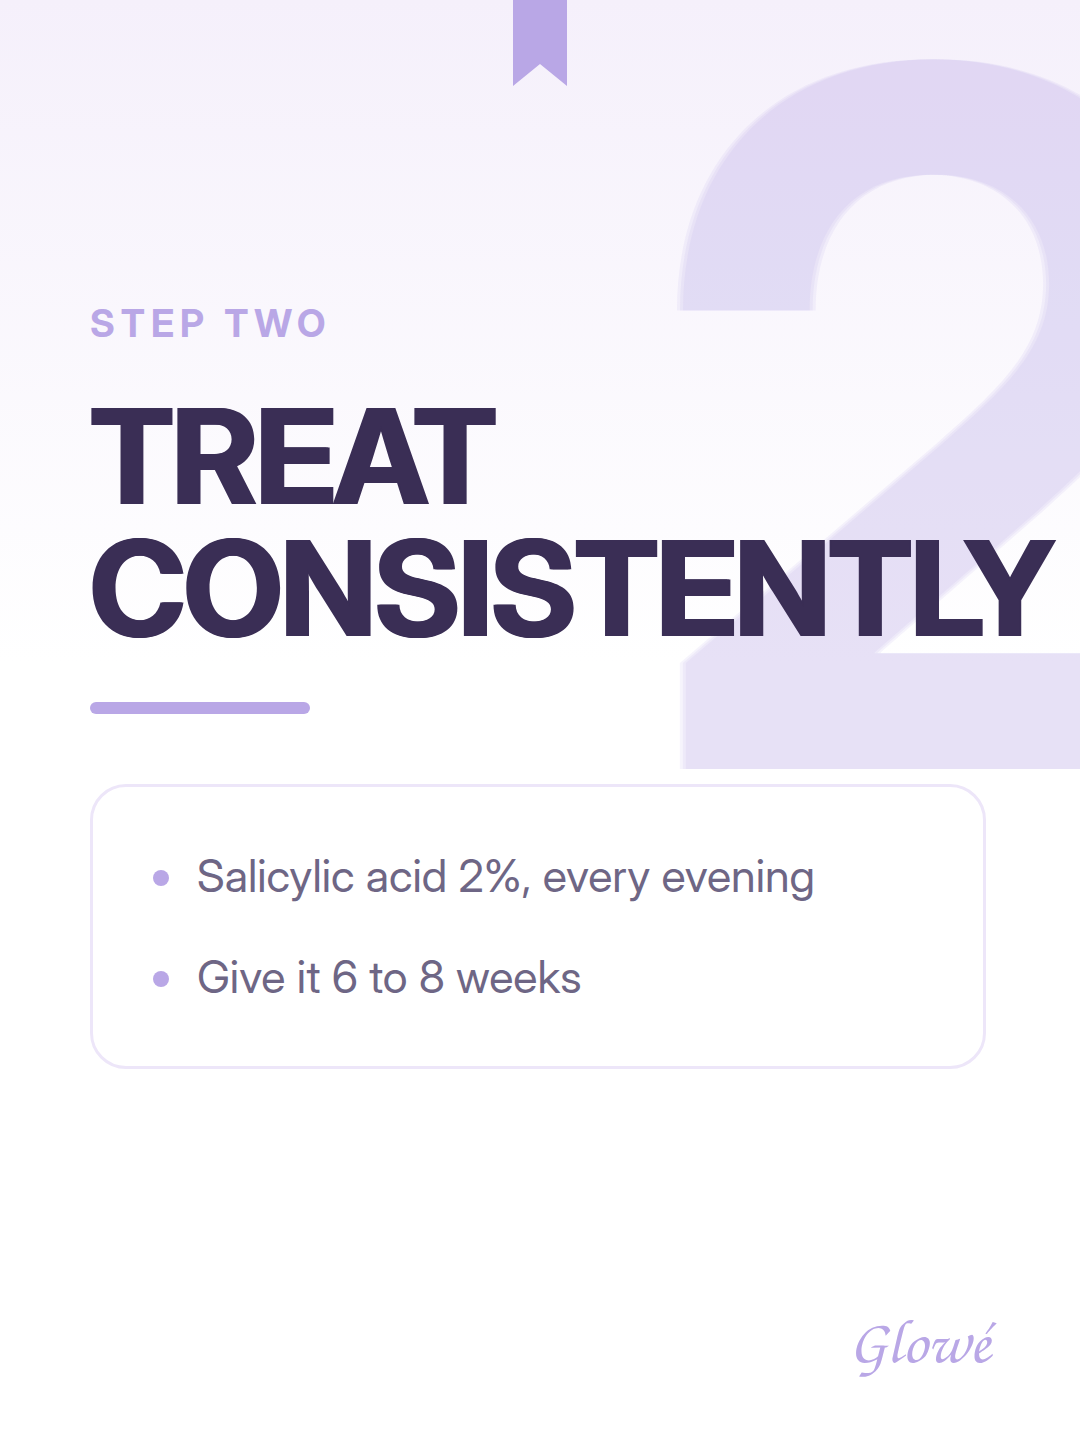
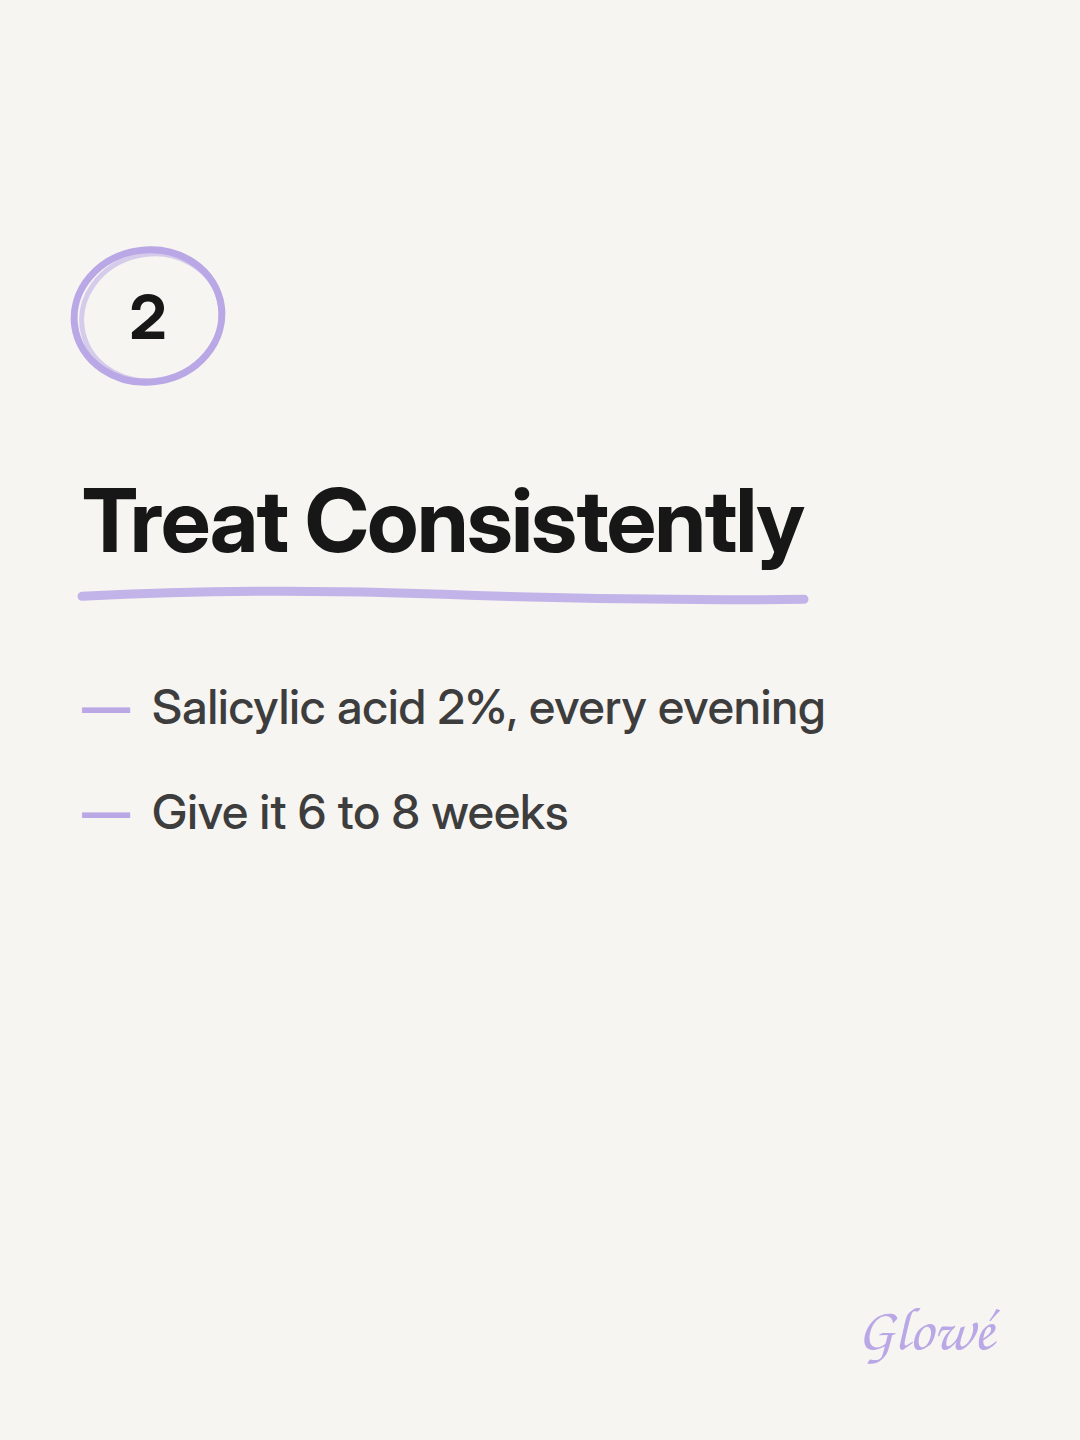
Carry the photo-hook style through slides 2-5
Slide 1 became a photo with a hand-drawn pointer while the rest kept the
lavender gradient, all-caps headings, bordered card and pill button. Read as
a set they looked like two different accounts.

Slides 2-5 now share the hook slide's language: the same warm paper ground,
the same tight bold face at sentence case, lavender demoted to an accent —
and the marker running through all five as the connective tissue. The step
numeral gets a circle drawn in two offset ellipses, since a single clean
stroke reads as print rather than pen; the heading gets a wobbled underline
measured to the last line's width so it stops with the text; the closing CTA
gets a box with deliberately imprecise corners in place of the pill.

"classic" on a slide restores the old branded layout.

The swipe hint moves up on the text-hook slide too. It was fixed on the
photo variant earlier but left sitting under TikTok's caption layer here.

Claude-Session: https://claude.ai/code/session_01EJfp6AtmKdfAEJn3yox12P

diff --git a/web/tiktok/render.py b/web/tiktok/render.py
@@ -127,7 +127,9 @@ body {{
   font-weight:400;
 }}
 .swipe {{
-  position:absolute; left:82px; bottom:96px;
+  /* Nicht tiefer — unterhalb davon liegt auf TikTok die Caption samt
+     Buttons ueber dem Bild und verdeckt den Hinweis. */
+  position:absolute; left:82px; bottom:210px;
   font-size:38px; color:#A3A099; font-weight:500;
 }}
 """
@@ -302,6 +304,135 @@ def headline_html(text, script_word=None, size=HEAD_MAX):
             out.append(w.upper())
     return " ".join(out)
 
+# ── Marker-Stil fuer Slide 2-5 ───────────────────────────────────────────────
+# Slide 1 ist Foto + handgezeichneter Pfeil. Der alte Lavendel-Verlauf mit
+# Versalien, Karte und Pill spricht dagegen eine voellig andere Sprache. Diese
+# Slides uebernehmen deshalb die DNA der Hook-Slide: warmes Papier statt
+# Farbflaeche, dieselbe enge Fettschrift in Kleinschreibung, Lavendel nur als
+# Akzent — und der Marker als durchgehendes Element (Kreis um die Schrittzahl,
+# Unterstreichung, gezeichneter Rahmen um den CTA) statt Karten und Buttons.
+
+MARKER_CSS = """
+* { margin:0; padding:0; box-sizing:border-box; }
+body {
+  width:{W}px; height:{H}px; overflow:hidden; position:relative;
+  background:#F7F5F2;
+  font-family:'{FONT}', -apple-system, 'Helvetica Neue', sans-serif;
+  -webkit-font-smoothing:antialiased;
+}
+.ink { position:absolute; inset:0; }
+.num {
+  position:absolute; left:82px; top:252px; width:132px; height:128px;
+  display:flex; align-items:center; justify-content:center;
+  font-size:62px; font-weight:700; color:#171717;
+}
+.wrap { position:absolute; left:82px; right:82px; top:470px; }
+.head {
+  font-weight:700; color:#171717; line-height:1.14; letter-spacing:-1.5px;
+}
+.body { margin-top:104px; }
+.line { font-size:48px; color:#3D3D3D; line-height:1.38; font-weight:500; }
+.line + .line { margin-top:38px; }
+.tick { color:{LAV}; font-weight:700; margin-right:22px; }
+.cta {
+  font-size:52px; font-weight:700; color:#171717; letter-spacing:-0.5px;
+  line-height:1.25;
+}
+.after { font-size:44px; color:#5A5A5A; line-height:1.4; margin-top:52px; font-weight:500; }
+.note  { font-size:37px; color:#8A8A8A; line-height:1.4; margin-top:22px; }
+.mark { position:absolute; bottom:74px; right:86px;
+        font-family:'{SCRIPT}'; font-size:60px; color:{LAV}; }
+"""
+
+
+def hand_circle(cx, cy, rx, ry):
+    """Zwei leicht versetzte Ellipsen — ein Strich allein wirkt gedruckt,
+    der doppelte Umriss liest als Stift."""
+    return (f"<ellipse cx='{cx}' cy='{cy}' rx='{rx}' ry='{ry}' fill='none'"
+            f" stroke='{LAV}' stroke-width='7' transform='rotate(-8 {cx} {cy})'/>"
+            f"<ellipse cx='{cx+3}' cy='{cy+2}' rx='{rx-4}' ry='{ry-3}' fill='none'"
+            f" stroke='{LAV}' stroke-width='5' opacity='.55'"
+            f" transform='rotate(-13 {cx} {cy})'/>")
+
+
+def hand_underline(x, y, w):
+    """Leicht welliger Strich statt gerader Linie."""
+    return (f"<path d='M {x} {y} q {w*0.25:.0f} -9 {w*0.5:.0f} -2"
+            f" t {w*0.5:.0f} 5' fill='none' stroke='{LAV}'"
+            f" stroke-width='9' stroke-linecap='round' opacity='.85'/>")
+
+
+def hand_box(x, y, w, h):
+    """Rahmen mit absichtlich ungenauen Ecken und offener Naht oben rechts."""
+    return (f"<path d='M {x+14} {y+4} L {x+w-10} {y} L {x+w} {y+h-8}"
+            f" L {x+8} {y+h} Z' fill='none' stroke='{LAV}' stroke-width='8'"
+            f" stroke-linecap='round' stroke-linejoin='round'/>")
+
+
+MARK_X = 82                      # linke Kante der Textspalte
+MARK_W = 1080 - 2 * MARK_X       # nutzbare Breite
+
+
+def _marker_head(text, budget, start=88):
+    """Groesse + Zeilen + Breite der letzten Zeile — letztere braucht die
+    Unterstreichung, damit sie genau unter dem Text endet und nicht darueber
+    hinausschiesst."""
+    size = start
+    while size > 48:
+        f = ImageFont.truetype(SANS_BOLD, size)
+        lines = _wrap(text.split(), f, -1.5, max_w=MARK_W)
+        if len(lines) * size * 1.14 <= budget:
+            break
+        size -= 4
+    f = ImageFont.truetype(SANS_BOLD, size)
+    lines = _wrap(text.split(), f, -1.5, max_w=MARK_W)
+    last = " ".join(lines[-1])
+    return size, lines, min(f.getlength(last) - 1.5 * len(last), MARK_W)
+
+
+def _marker_page(ink, inner):
+    css = (MARKER_CSS.replace("{W}", str(W)).replace("{H}", str(H))
+           .replace("{FONT}", FONT_SANS).replace("{SCRIPT}", FONT_SCRIPT)
+           .replace("{LAV}", LAV))
+    return (f"<!DOCTYPE html><html><head><meta charset='utf-8'><style>{css}</style>"
+            f"</head><body><svg class='ink' viewBox='0 0 {W} {H}'>{ink}</svg>"
+            f"{inner}<div class='mark'>Glow&eacute;</div></body></html>")
+
+
+def build_marker_step(slide):
+    size, lines, last_w = _marker_head(slide["headline"], budget=300)
+    head = "<br>".join(html.escape(" ".join(l)) for l in lines)
+    head_h = len(lines) * size * 1.14
+    ink = (hand_circle(148, 316, 74, 66)
+           + hand_underline(MARK_X, 470 + head_h + 26, last_w))
+    body = "".join(
+        f"<div class='line'><span class='tick'>—</span>{html.escape(b)}</div>"
+        for b in slide["bullets"])
+    return _marker_page(
+        ink,
+        f"<div class='num'>{html.escape(str(slide['ghost_number']))}</div>"
+        f"<div class='wrap'><div class='head' style='font-size:{size}px'>{head}</div>"
+        f"<div class='body'>{body}</div></div>")
+
+
+def build_marker_cta(slide):
+    size, lines, _ = _marker_head(slide["headline"], budget=300)
+    head = "<br>".join(html.escape(" ".join(l)) for l in lines)
+    head_h = len(lines) * size * 1.14
+    cta = slide.get("pill", 'comment GLOW for early access')
+    f = ImageFont.truetype(SANS_BOLD, 52)
+    box_w = min(f.getlength(cta) + 76, MARK_W)
+    box_y = 470 + head_h + 96
+    ink = hand_box(MARK_X - 10, box_y, box_w, 116)
+    inner = (f"<div class='wrap'>"
+             f"<div class='head' style='font-size:{size}px'>{head}</div>"
+             f"<div class='cta' style='margin-top:{96 + 34}px'>{html.escape(cta)}</div>"
+             f"<div class='after' style='margin-top:{116 - 34 + 40}px'>"
+             f"{html.escape(slide.get('after_pill', ''))}</div>"
+             f"<div class='note'>{html.escape(slide['line2'])}</div></div>")
+    return _marker_page(ink, inner)
+
+
 # Vertikales Budget der Headline je Slide-Typ: Spaltenhoehe bis 40px ueber
 # das Logo, minus der Bloecke mit fester Hoehe (Eyebrow, Bar, Sub/Card/Pill).
 BUDGET_COVER, BUDGET_STEP, BUDGET_CTA = 620, 470, 470
@@ -323,7 +454,12 @@ def build(slide):
                  f"<div class='sub'>{slide['subline']}</div>"
                  f"<div class='pill'>SWIPE FOR THE ROUTINE</div>")
         return page(inner, high=True)
+    # Marker ist der Standard und passt zur Foto-Hook-Slide; "classic" holt das
+    # alte gebrandete Layout zurueck.
+    classic = slide.get("style") == "classic"
     if n in (2, 3, 4):
+        if not classic:
+            return build_marker_step(slide)
         size = fit_headline(slide["headline"], None, BUDGET_STEP)
         bullets = "".join(f"<div class='bullet'><span class='dot'></span>{b}</div>"
                           for b in slide["bullets"])
@@ -333,6 +469,8 @@ def build(slide):
                  f"<div class='bar'></div>"
                  f"<div class='card'>{bullets}</div>")
         return page(inner, ghost=slide["ghost_number"])
+    if not classic:
+        return build_marker_cta(slide)
     pill_raw = slide.get("pill", 'COMMENT "GLOW"')
     # Klasse am Rohtext messen, nicht am escapten — &quot; blaeht jedes
     # Anfuehrungszeichen auf 6 Zeichen auf und wuerde den kurzen Default
